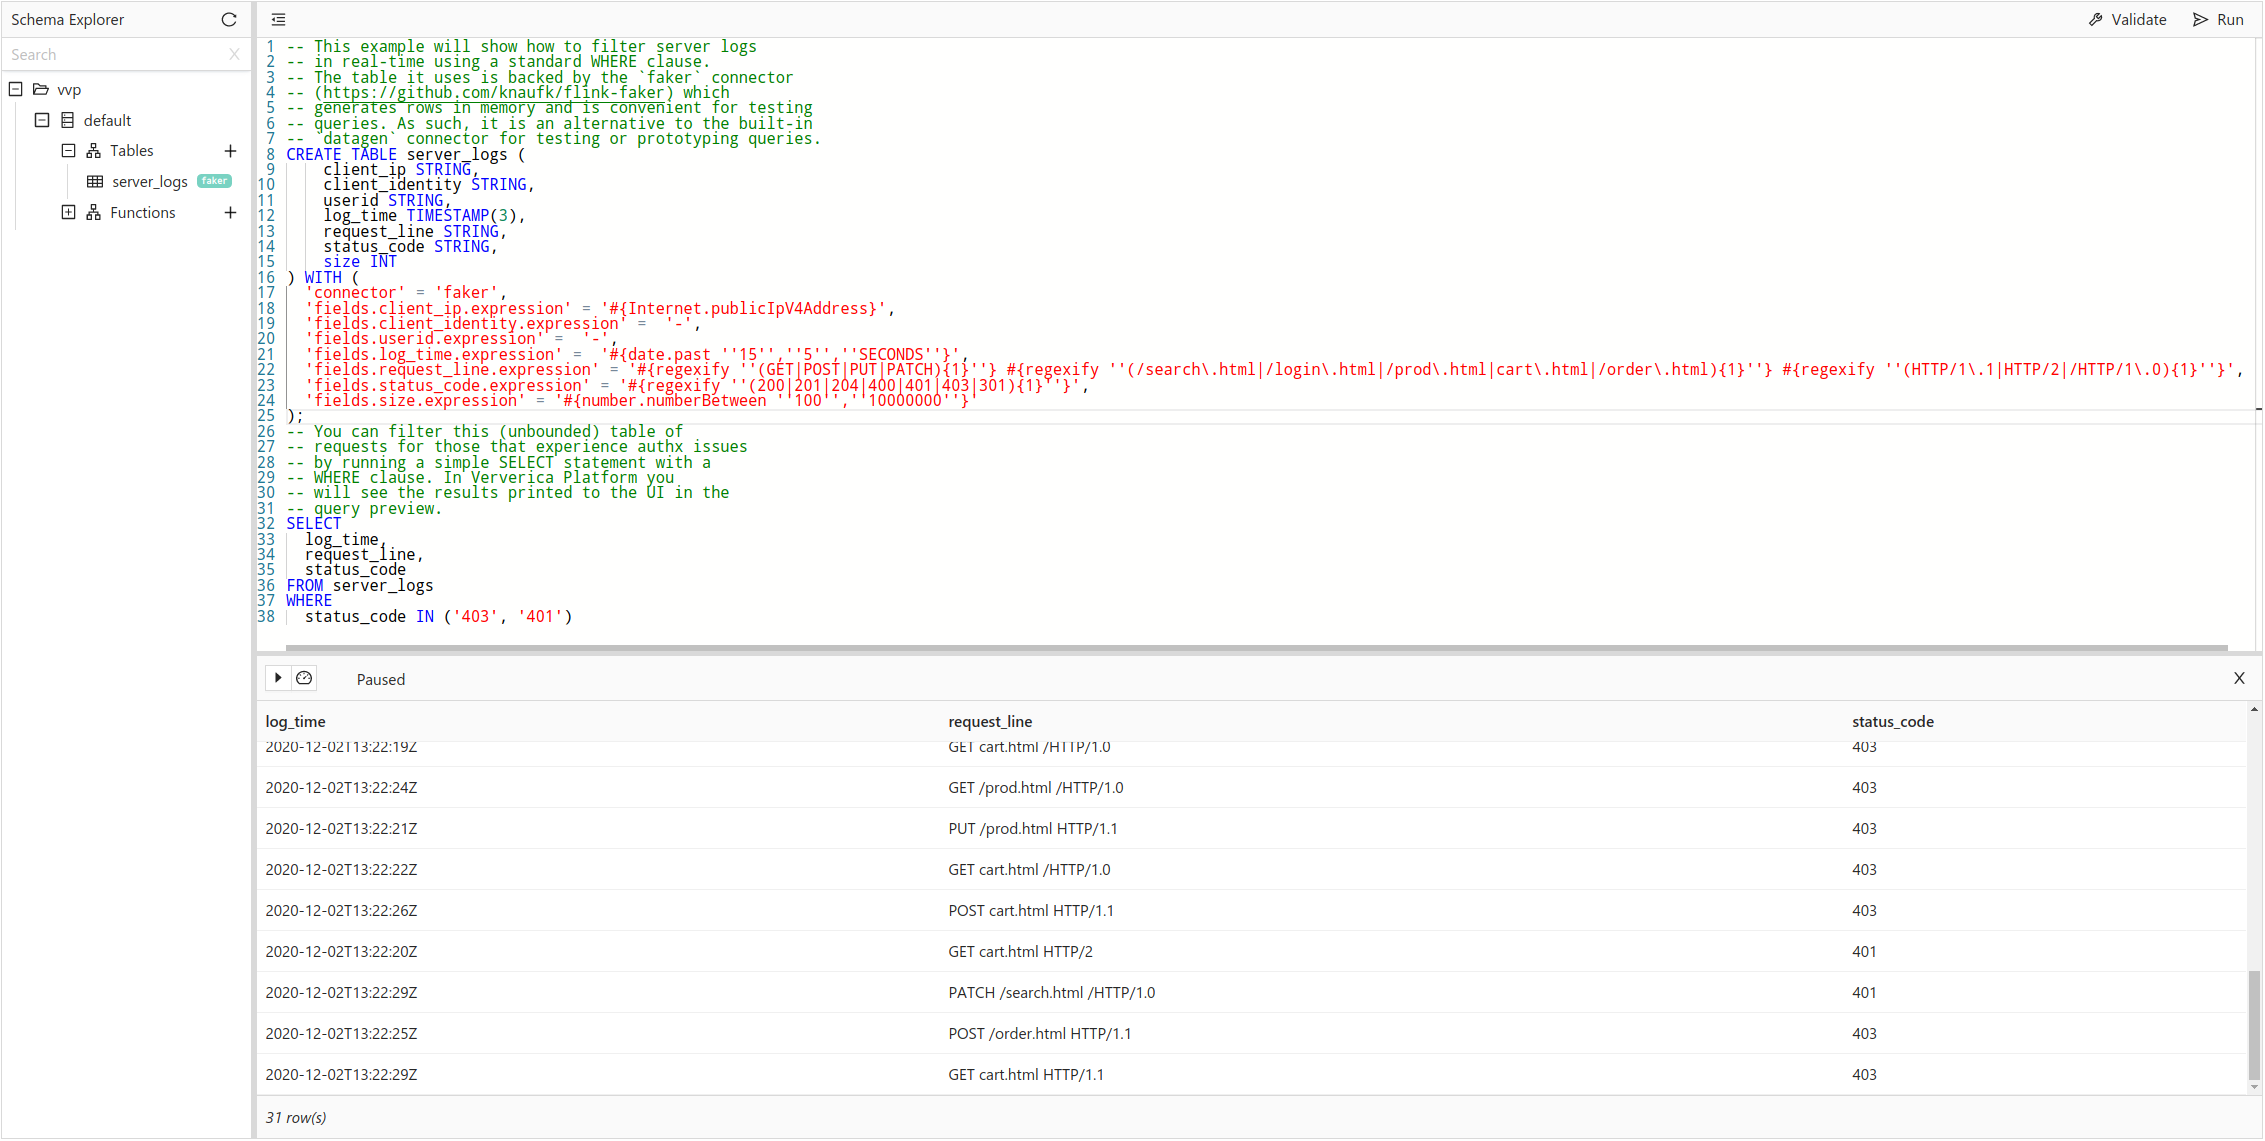
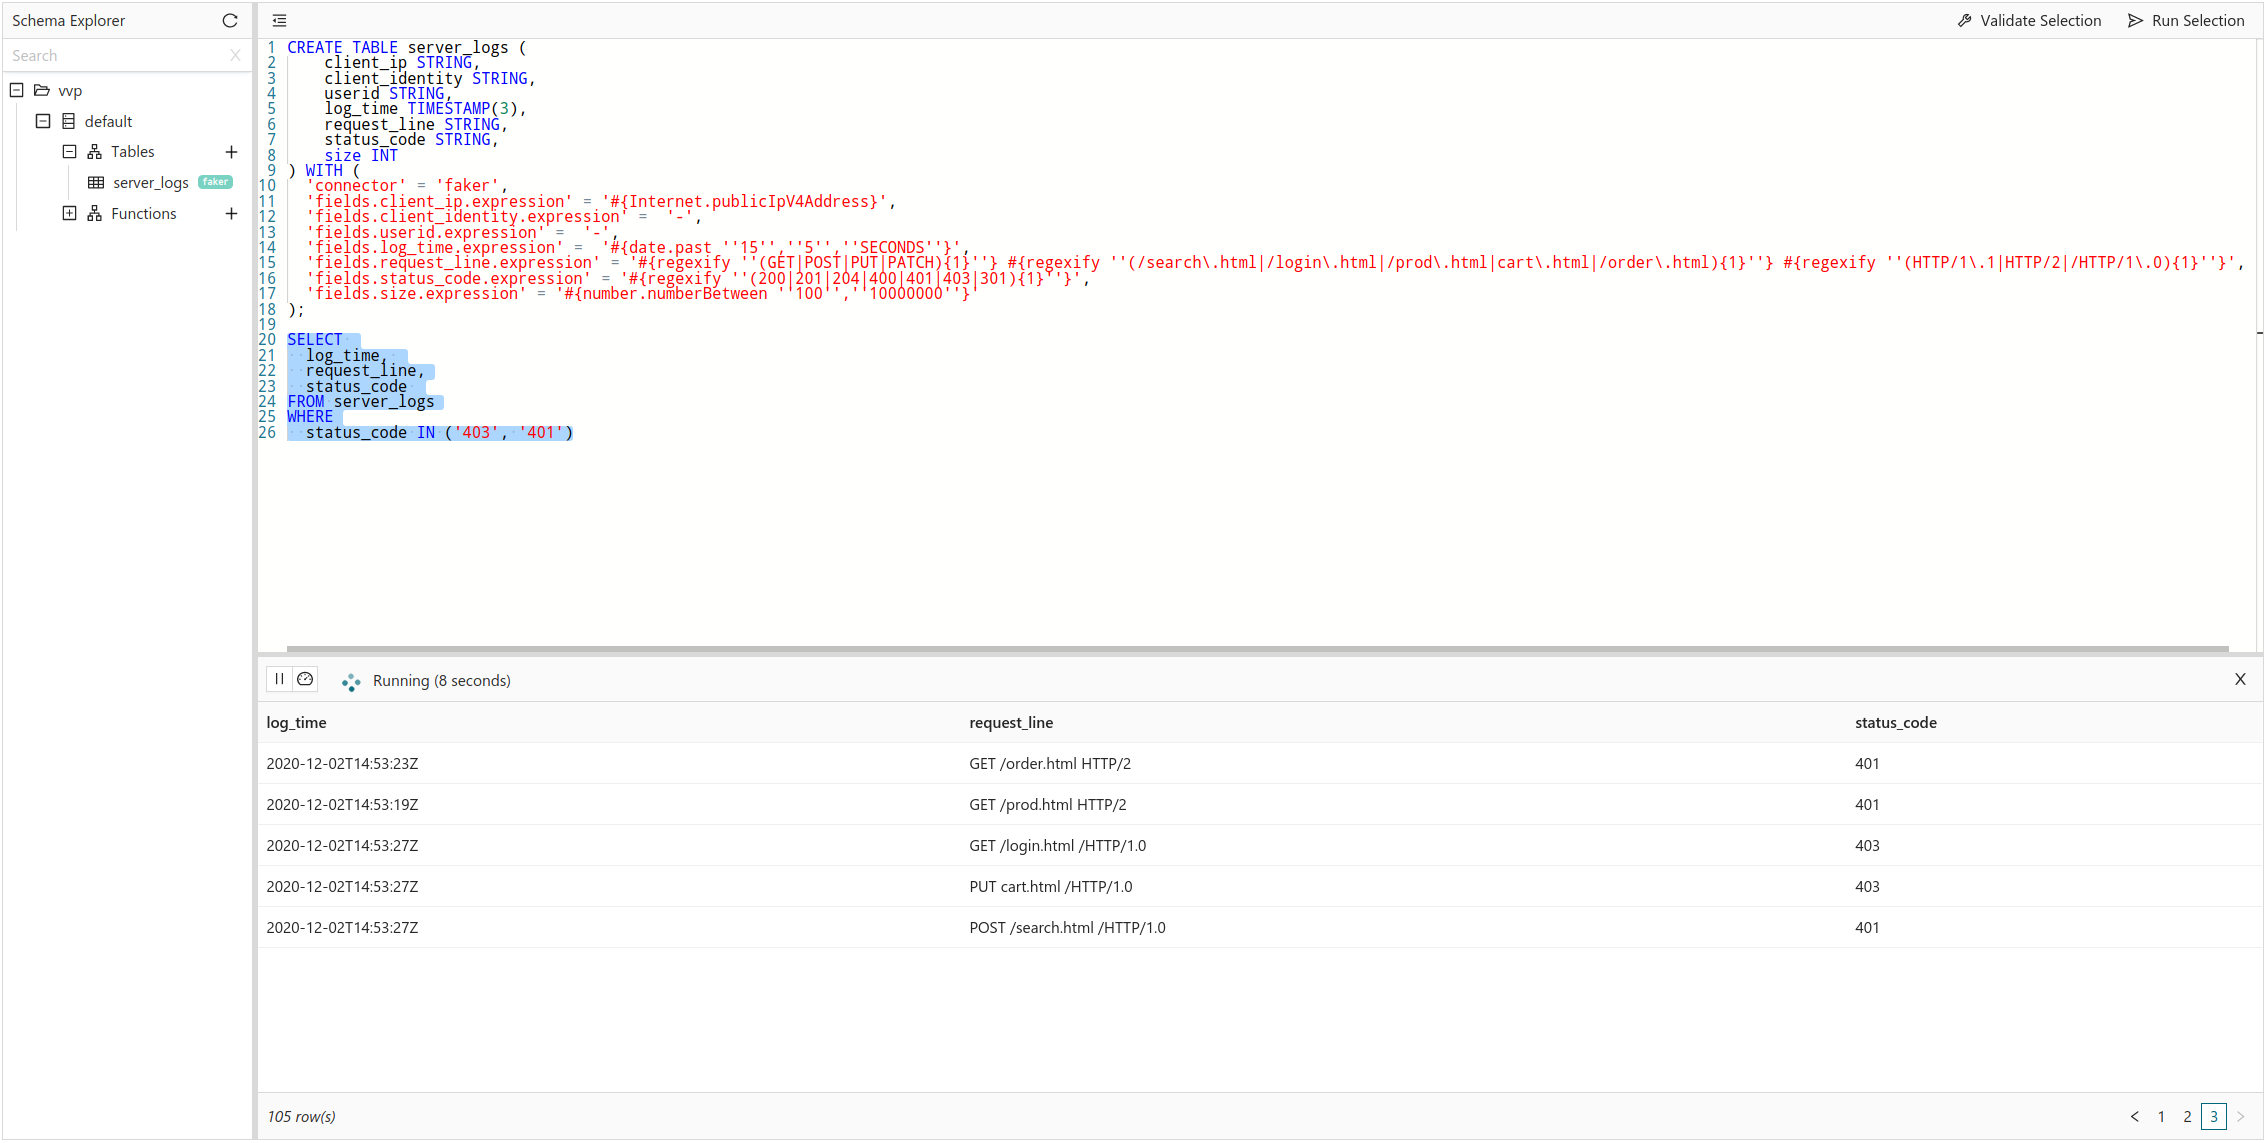
move explanatino out of the comments of sql scripts into markdown

diff --git a/recipes/01/01_create_table.md b/recipes/01/01_create_table.md
@@ -1,22 +1,19 @@
 # 01 Creating Tables
 
+Flink SQL operates against logical tables, just like a traditional database.
+However, it does not maintain tables internally but always operates against external systems.
+
+Table definitions are in two parts; the logical schema and connector configuration. The logical schema defines the columns and types in the table and is what queries operate against. 
+The connector configuration is contained in the `WITH` clause and defines the physical system that backs this table. 
+This example uses the `datagen` connector which generates rows in memory and is convenient for testing queries.
+
+You can test the table is properly created by running a simple `SELECT` statement. 
+In Ververica Platform you will see the results printed to the UI in the query preview.
+
 ## Script
 
 ```sql
--- Flink SQL operates against logical tables, 
--- just like a traditional database.
--- However, it does not maintain tables internally
--- but always operates against external systems.
---
--- Table definitions are in two parts; the logical
--- schema and connector configuration. The logical
--- schema defines the columns and types in the table
--- and is what queries operate against. The connector
--- configuration is contained in the `WITH` clause
--- and defines the physical system that backs this
--- table. This example uses the `datagen` connector
--- which generates rows in memory and is convenient
--- for testing queries.
+
 CREATE TABLE orders (
     order_uid  BIGINT,
     product_id BIGINT,
@@ -25,10 +22,7 @@ CREATE TABLE orders (
 ) WITH (
     'connector' = 'datagen'
 );
--- You can test the table is properly created
--- by running a simple select statement. In 
--- Ververica Platform you will see the results
--- printed to the UI in the query preview.
+
 SELECT * FROM orders;
 ```
 

diff --git a/recipes/02/02_where.md b/recipes/02/02_where.md
@@ -1,15 +1,16 @@
 # 02 Filtering Data
 
+This example will show how to filter server logs in real-time using a standard `WHERE` clause.
+
+The table it uses, `server_logs`,  is backed by the [`faker` connector](https://github.com/knaufk/flink-faker) which continuously generates rows in memory based on Java Faker expressions and is convenient for testing queries. 
+As such, it is an alternative to the built-in `datagen` connector used for example in [the first recipe](recipes/01/01_create_table.md).
+
+You can continuously filter these logs for those requests that experience authx issues with a simple `SELECT` statement with a `WHERE` clause filtering on the auth related HTTP status codes. 
+In Ververica Platform you  will see the results printed to the UI in the query preview.
+
 ## Script
 
 ```sql
--- This example will show how to filter server logs 
--- in real-time using a standard WHERE clause.
--- The table it uses is backed by the `faker` connector 
--- (https://github.com/knaufk/flink-faker) which 
--- generates rows in memory and is convenient for testing
--- queries. As such, it is an alternative to the built-in 
--- `datagen` connector for testing or prototyping queries.
 CREATE TABLE server_logs ( 
     client_ip STRING,
     client_identity STRING, 
@@ -28,12 +29,7 @@ CREATE TABLE server_logs (
   'fields.status_code.expression' = '#{regexify ''(200|201|204|400|401|403|301){1}''}',
   'fields.size.expression' = '#{number.numberBetween ''100'',''10000000''}'
 );
--- You can filter this (unbounded) table of 
--- requests for those that experience authx issues
--- by running a simple SELECT statement with a 
--- WHERE clause. In Ververica Platform you 
--- will see the results printed to the UI in the 
--- query preview.
+
 SELECT 
   log_time, 
   request_line,
